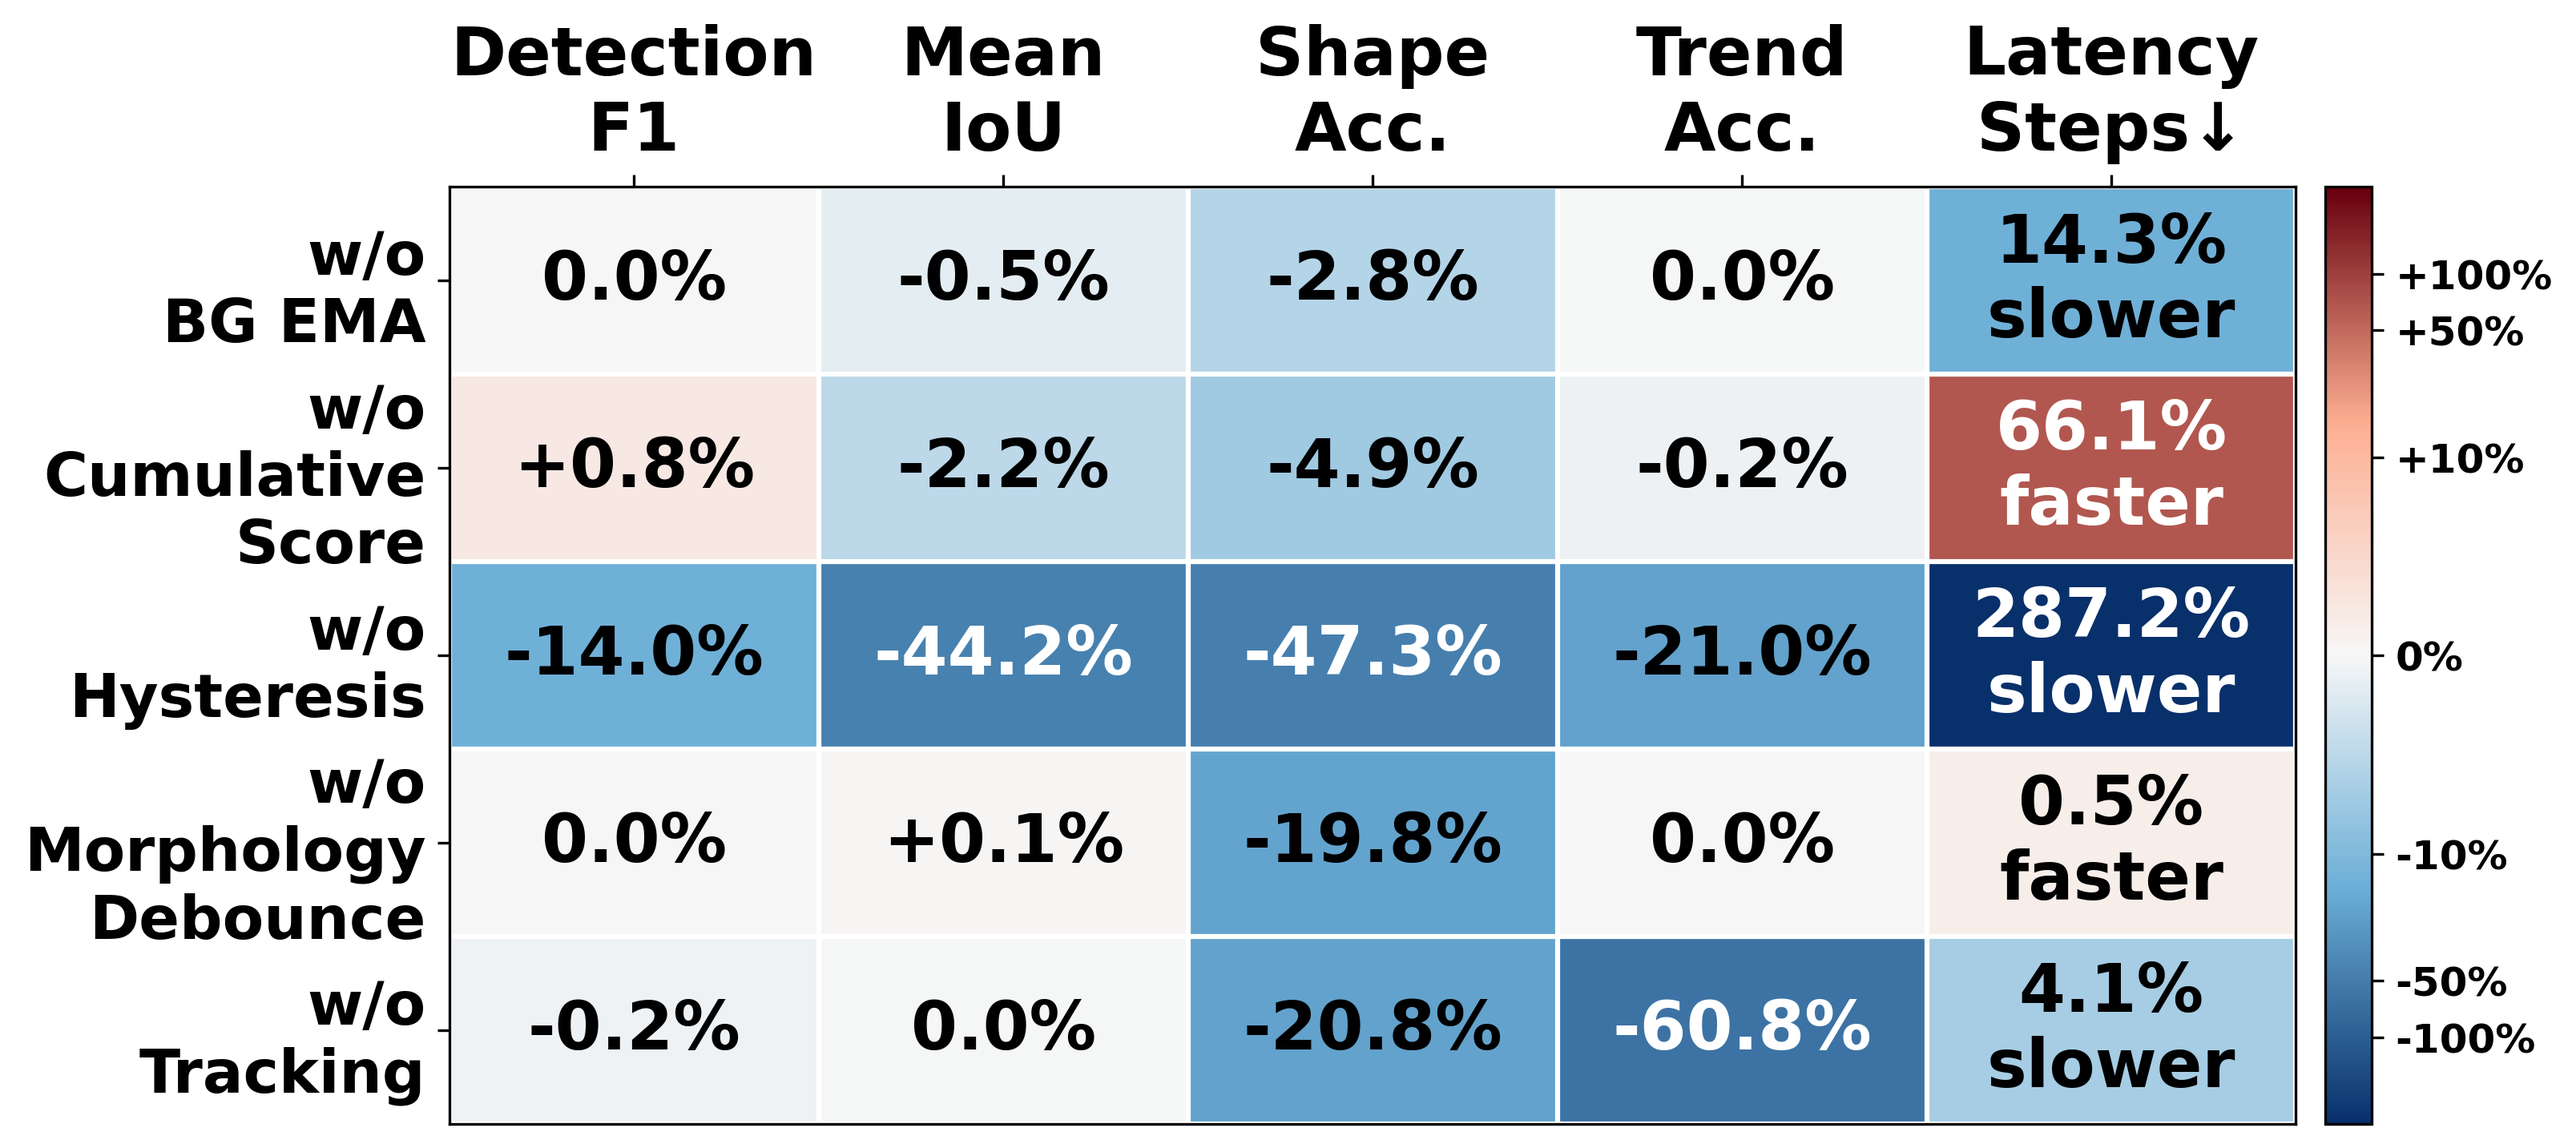
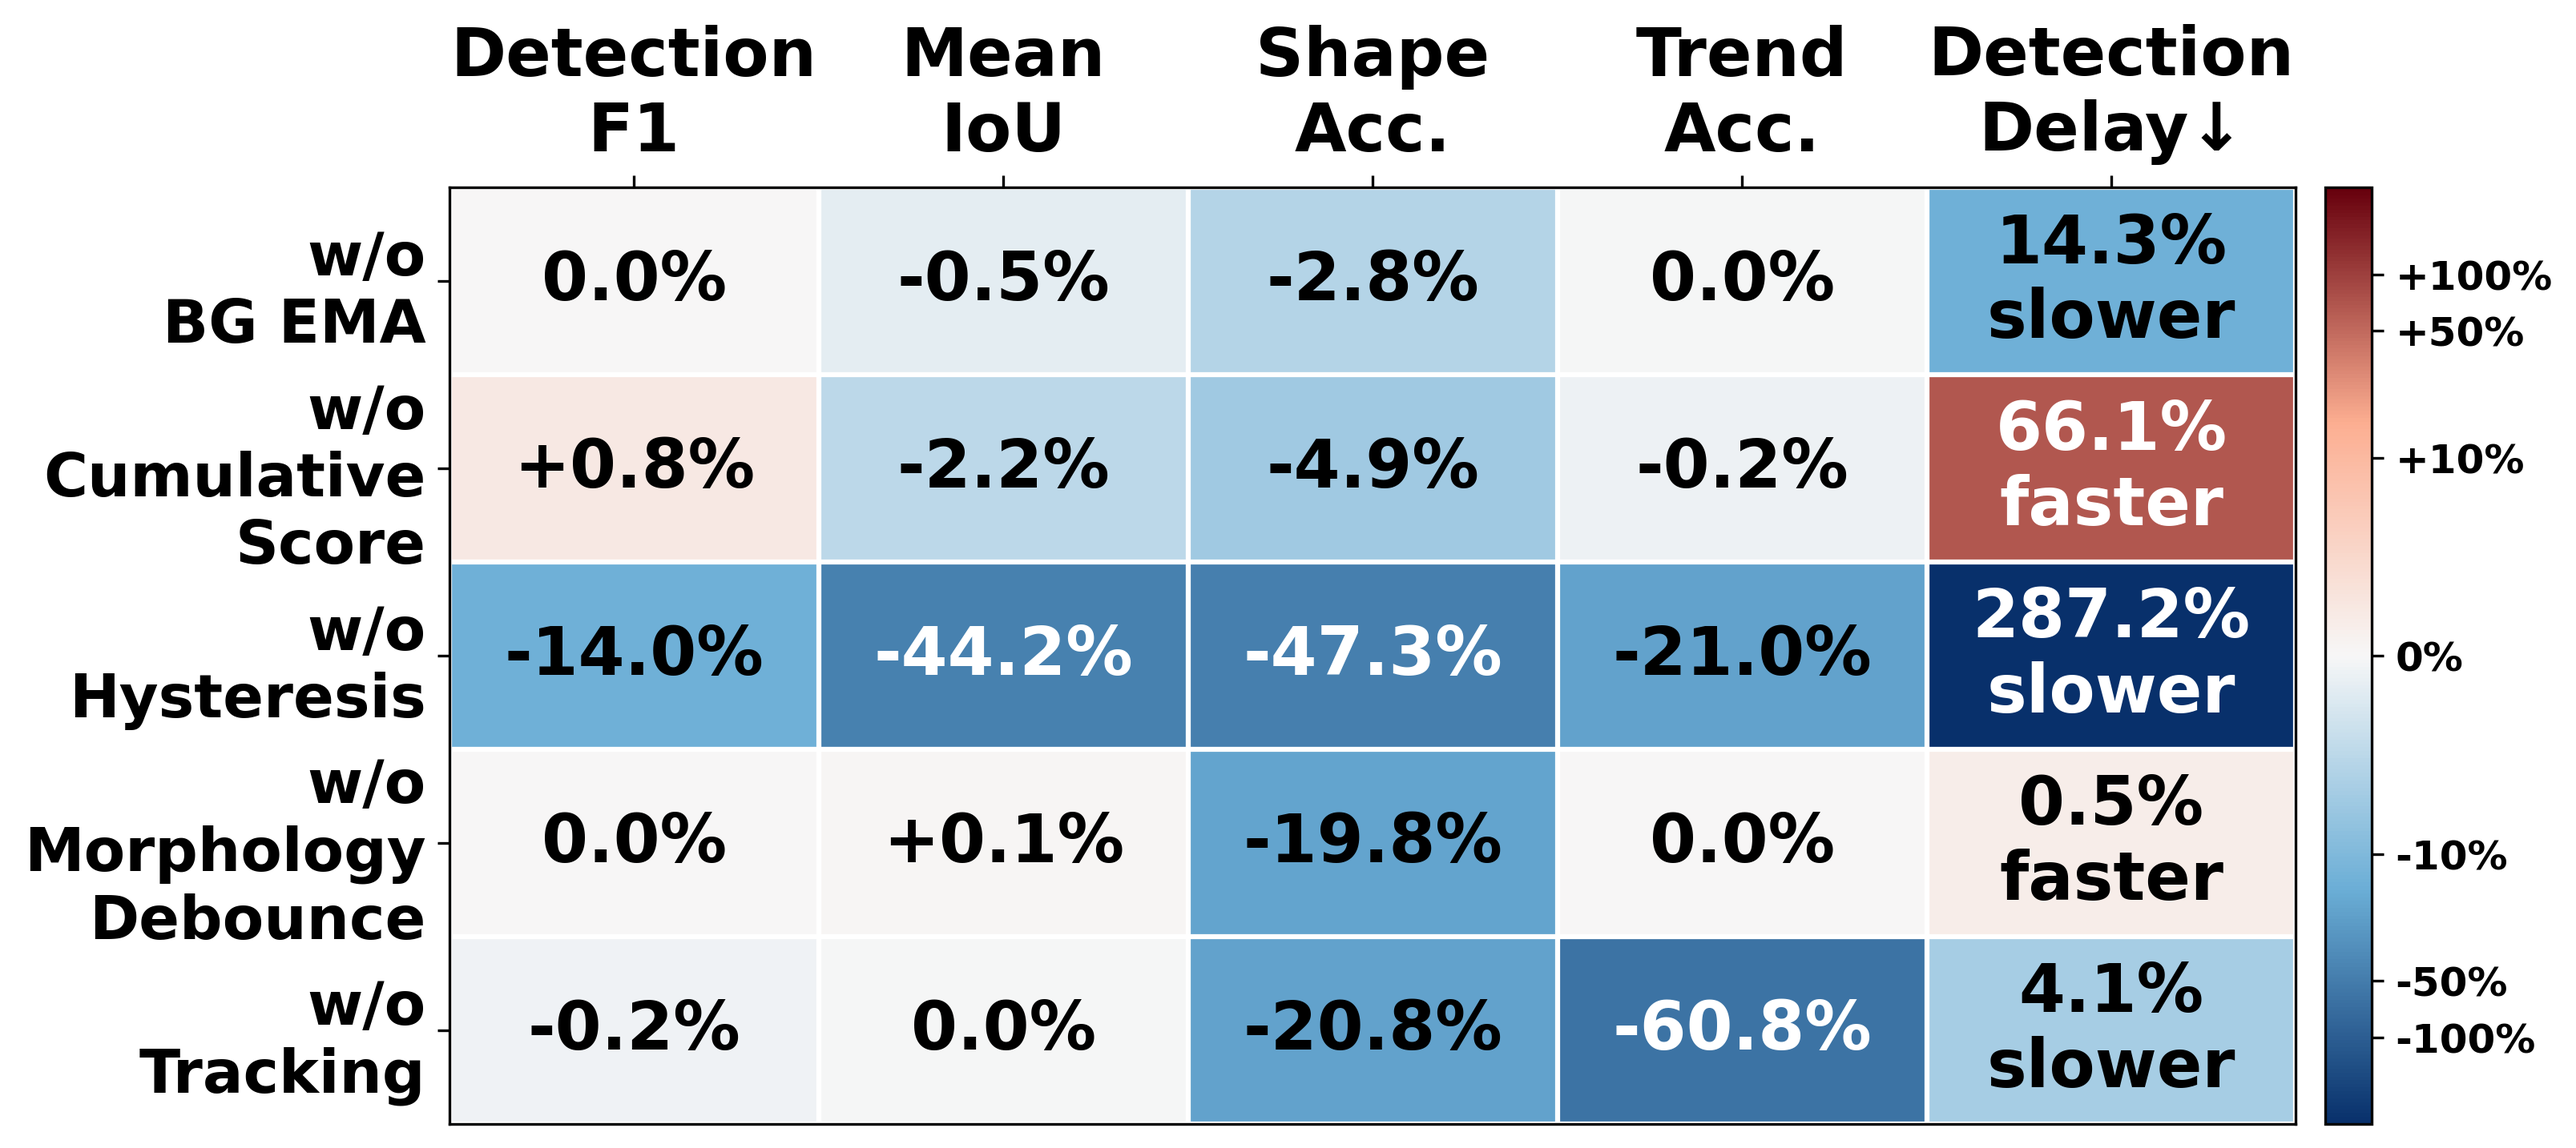
再次优化和更新绘图

Changed region(s): [[0.7465, 0.0, 0.902, 0.1535], [0.5288, 0.2149, 0.5599, 0.2456], [0.3733, 0.0307, 0.4044, 0.0614]]

diff --git a/visual1_comprehensive_v880_all7_parameter_free_graph_dual_axis.py b/visual1_comprehensive_v880_all7_parameter_free_graph_dual_axis.py
@@ -52,27 +52,27 @@ METHOD_ORDER = [
 ]
 
 METHOD_LABELS = {
-    "f2e_events_graph_llm": "F2E graph + LLM",
-    "f2e_events_llm": "F2E + LLM",
-    "threshold_matrix_llm": "Threshold + LLM",
-    "raw_matrix_summary_llm": "Raw matrix + LLM",
-    "threshold_matrix_rules": "Threshold + rules",
-    "f2e_events_rules": "F2E + rules",
-    "raw_field_image_vlm": "Raw field image + VLM",
+    "f2e_events_graph_llm": "F2E Graph LLM",
+    "f2e_events_llm": "F2E LLM",
+    "threshold_matrix_llm": "Threshold LLM",
+    "raw_matrix_summary_llm": "Raw matrix LLM",
+    "threshold_matrix_rules": "Threshold rules",
+    "f2e_events_rules": "F2E rules",
+    "raw_field_image_vlm": "Raw field image VLM",
 }
 
 METRICS = [
     "accident_classification_accuracy",
     "macro_f1",
-    "hard_reasoning_alignment_score",
+    "hard_case_accuracy",
     "ood_template_rejection_success",
 ]
 
 METRIC_LABELS = {
     "accident_classification_accuracy": "Acc",
-    "macro_f1": "MacroF1",
-    "hard_reasoning_alignment_score": "Hard reason",
-    "ood_template_rejection_success": "OOD reject",
+    "macro_f1": "Macro-F1",
+    "hard_case_accuracy": "Hard-Case Acc.",
+    "ood_template_rejection_success": "OOD Rejection",
 }
 
 SCORE_COLORS = ["#4C78A8", "#F58518", "#54A24B", "#E45756"]
@@ -139,16 +139,14 @@ def seed_metric(seed_rows: pd.DataFrame, metric: str) -> float:
         return float(pd.to_numeric(seed_rows["correct"], errors="coerce").mean())
     if metric == "macro_f1":
         return macro_f1(seed_rows["ground_truth"], seed_rows["prediction"])
-    if metric == "hard_reasoning_alignment_score":
+    if metric == "hard_case_accuracy":
         mask = (
-            seed_rows["hard_family"].fillna("standard").ne("standard")
-            | true_mask(seed_rows["ambiguous"])
+            true_mask(seed_rows["ambiguous"])
+            | true_mask(seed_rows["unseen_combo"])
             | true_mask(seed_rows["expected_review"])
         )
         return float(
-            pd.to_numeric(
-                seed_rows.loc[mask, "reasoning_alignment_score"], errors="coerce"
-            ).mean()
+            pd.to_numeric(seed_rows.loc[mask, "correct"], errors="coerce").mean()
         )
     if metric == "ood_template_rejection_success":
         subset = seed_rows[seed_rows["diagnostic_goal"] == "template_rejection"]
@@ -230,6 +228,7 @@ def validate_inputs(summary: pd.DataFrame, records: pd.DataFrame) -> None:
         "prediction",
         "correct",
         "template_rejection_success",
+        "unseen_combo",
         "prompt_tokens",
         "token_count_source",
     }
@@ -328,7 +327,7 @@ def main() -> None:
         token_values[method] = values
         token_stats[method] = mean_ci95(values)
 
-    figure, score_axis = plt.subplots(figsize=(19.5, 5.8))
+    figure, score_axis = plt.subplots(figsize=(19.5, 4.5))
     x = np.arange(len(METHOD_ORDER), dtype=float) * 1.35
     bar_width = 0.15
     group_count = len(METRICS) + 1
@@ -376,7 +375,7 @@ def main() -> None:
             labels=[f"{value:.1f}" for value in means],
             padding=6,
             rotation=90,
-            fontsize=14,
+            fontsize=15,
             fontweight="bold",
         )
         for label in labels:
@@ -430,7 +429,7 @@ def main() -> None:
         labels=token_labels,
         padding=6,
         rotation=90,
-        fontsize=14,
+        fontsize=15,
         fontweight="bold",
         color=TOKEN_COLOR,
     )
@@ -439,7 +438,7 @@ def main() -> None:
 
     score_axis.set_xticks(x)
     score_axis.set_xticklabels(
-        [METHOD_LABELS[m] for m in METHOD_ORDER], fontsize=15, fontweight="bold"
+        [METHOD_LABELS[m] for m in METHOD_ORDER], fontsize=17, fontweight="bold"
     )
     score_axis.set_ylabel("Score (%)", fontsize=20, fontweight="bold")
     score_axis.set_ylim(0, 102)
@@ -478,8 +477,8 @@ def main() -> None:
     pdf_path = safe_output_path(
         os.path.join(fig_dir, "layer2_v880_all7_scores_tokens_dual_axis.pdf")
     )
-    figure.savefig(png_path, dpi=300, bbox_inches="tight", pad_inches=0.01)
-    figure.savefig(pdf_path, bbox_inches="tight", pad_inches=0.01)
+    figure.savefig(png_path, dpi=600, bbox_inches="tight", pad_inches=0.01)
+    figure.savefig(pdf_path, dpi=600, bbox_inches="tight", pad_inches=0.01)
     plt.close(figure)
 
     token_table = pd.DataFrame(

diff --git a/visual-matrix_minimal_label_fix.py b/visual-matrix_minimal_label_fix.py
@@ -20,14 +20,14 @@ metrics = {
     "Mean\nIoU": "mean_iou",
     "Shape\nAcc.": "shape_accuracy",
     "Trend\nAcc.": "trend_accuracy",
-    "Latency\nSteps↓": "latency_steps",
+    "Detection\nDelay↓": "latency_steps",
 }
 
 # 正向指标：越大越好
 positive_metrics = ["Detection\nF1", "Mean\nIoU", "Shape\nAcc.", "Trend\nAcc."]
 
 # 负向指标：越小越好
-negative_metrics = ["Latency\nSteps↓"]
+negative_metrics = ["Detection\nDelay↓"]
 
 # =========================
 # 3. 以 full 为基准计算相对变化
@@ -92,7 +92,7 @@ def format_cell(value, metric, digits=1):
     """
     rounded = round(float(value), digits)
 
-    if metric == "Latency\nSteps↓":
+    if metric == "Detection\nDelay↓":
         if rounded == 0:
             return f"{0:.{digits}f}%"
         if rounded < 0:
